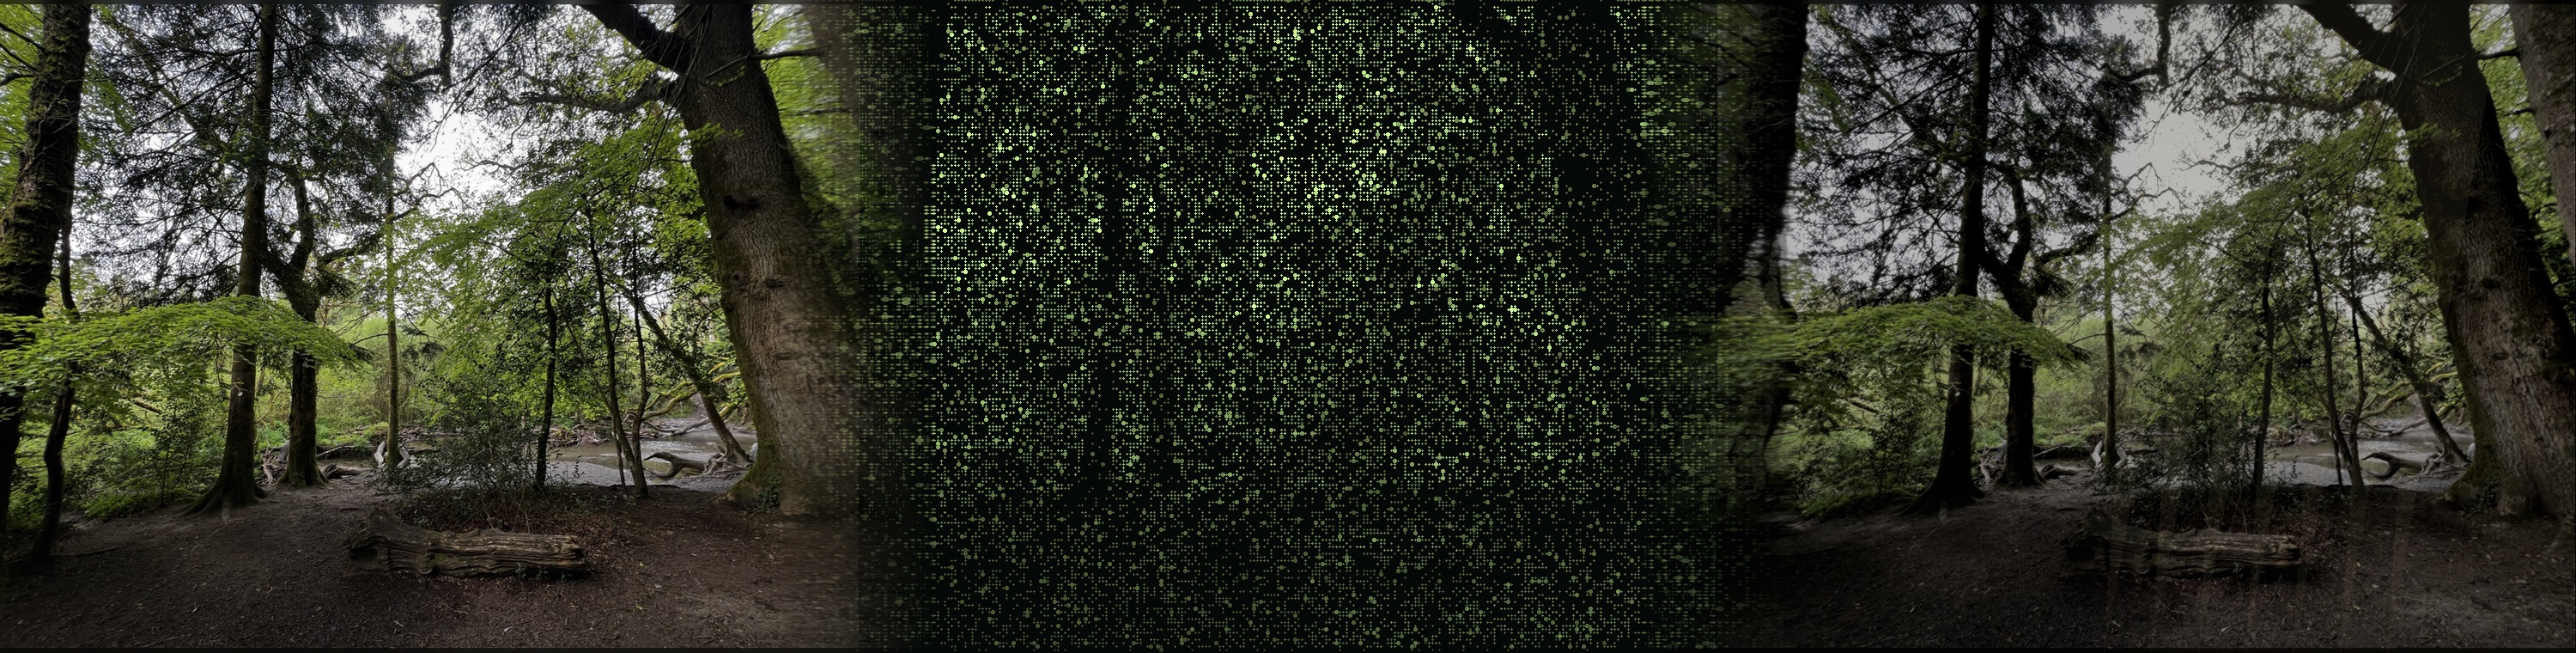
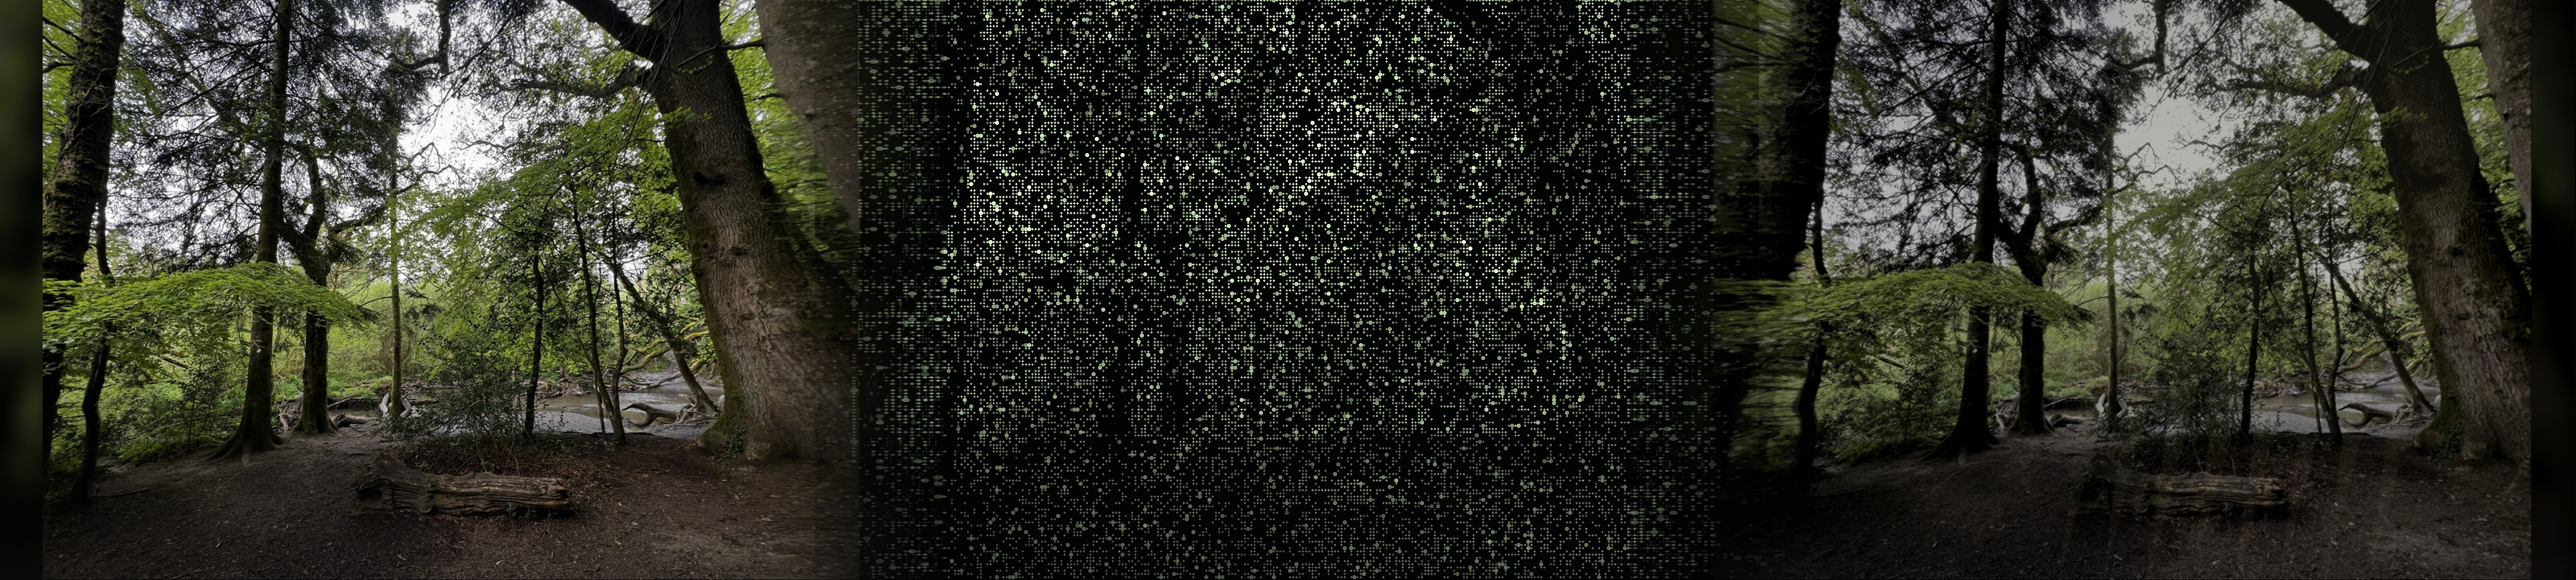
Add files via upload

diff --git a/index.html b/index.html
@@ -5,29 +5,33 @@
   <meta name="viewport" content="width=device-width, initial-scale=1">
   <title>Dafydd Sills-Jones</title>
   <meta name="description" content="Dafydd Sills-Jones: artist, filmmaker and researcher working across documentary, virtual production, AI, place and minority-language media.">
+  <link rel="preload" as="image" href="hero-place-scan-render.jpg">
   <link rel="stylesheet" href="styles.css">
 </head>
+
 <body>
   <header class="site-header">
     <a class="brand" href="#top">Dafydd Sills-Jones</a>
-    <nav>
+    <nav aria-label="Main navigation">
       <a href="#work">Work</a>
       <a href="#research">Research</a>
       <a href="#writing">Writing</a>
+      <a href="#about">About</a>
       <a href="#contact">Contact</a>
     </nav>
   </header>
 
   <main id="top">
-    <section class="hero">
+    <section class="hero" aria-label="Introduction">
       <div class="quote">
         <p>Nid wy’n byw un amser<br>nac yn unlle’n gyfan oll:</p>
         <p>Mae darn o hyd<br>ar grwydr neu ar goll.</p>
         <small>I never live wholly in one time or one place;<br>a part of me is always wandering, or lost.</small>
+        <small class="source">T. H. Parry-Williams</small>
       </div>
     </section>
 
-    <section class="identity">
+    <section class="identity" id="about">
       <h1>Dafydd Sills-Jones</h1>
       <p class="role">Artist · Filmmaker · Researcher</p>
       <p class="summary">I work across documentary, virtual production, creative technologies and minority-language media, through filmmaking, artistic practice, research and editorial work.</p>
@@ -35,51 +39,52 @@
 
     <section class="work" id="work">
       <div class="work-label">
-        <h2>Work</h2>
+        <h2>Selected<br>Works</h2>
+        <span>View all works</span>
       </div>
       <div class="works-strip">
         <a class="work-card" href="https://youtu.be/qruWjfX20rU" target="_blank" rel="noopener">
-          <img src="https://i.ytimg.com/vi/qruWjfX20rU/hqdefault.jpg" alt="Thumbnail for Anwadalwch [Fickleness]">
+          <img src="https://i.ytimg.com/vi/qruWjfX20rU/hqdefault.jpg" alt="Thumbnail for Anwadalwch [Fickleness]" loading="lazy">
           <span class="work-title">Anwadalwch [Fickleness]</span>
           <span class="work-meta">2025 · Mobile film</span>
         </a>
         <a class="work-card" href="https://youtu.be/e0rO3VePtNk" target="_blank" rel="noopener">
-          <img src="https://i.ytimg.com/vi/e0rO3VePtNk/hqdefault.jpg" alt="Thumbnail for Chryptochrome">
+          <img src="https://i.ytimg.com/vi/e0rO3VePtNk/hqdefault.jpg" alt="Thumbnail for Chryptochrome" loading="lazy">
           <span class="work-title">Chryptochrome</span>
           <span class="work-meta">2024 · LiDAR / iPhone film</span>
         </a>
         <a class="work-card" href="https://youtu.be/9hbs9z-ShWs" target="_blank" rel="noopener">
-          <img src="https://i.ytimg.com/vi/9hbs9z-ShWs/hqdefault.jpg" alt="Thumbnail for Amrywiaethau Cafflogion #3: Esgair Fraith">
-          <span class="work-title">Amrywiaethau Cafflogion #3: Esgair Fraith</span>
-          <span class="work-meta">2023 · Vertical / mobile performance film · with R. Owen</span>
+          <img src="https://i.ytimg.com/vi/9hbs9z-ShWs/hqdefault.jpg" alt="Thumbnail for Esgair Fraith" loading="lazy">
+          <span class="work-title">Esgair Fraith</span>
+          <span class="work-meta">2023 · Vertical / mobile performance film</span>
         </a>
         <a class="work-card" href="https://youtu.be/YiXHvbbyV-g" target="_blank" rel="noopener">
-          <img src="https://i.ytimg.com/vi/YiXHvbbyV-g/hqdefault.jpg" alt="Thumbnail for Y Trydydd Masg [The Third Mask]">
+          <img src="https://i.ytimg.com/vi/YiXHvbbyV-g/hqdefault.jpg" alt="Thumbnail for Y Trydydd Masg [The Third Mask]" loading="lazy">
           <span class="work-title">Y Trydydd Masg [The Third Mask]</span>
           <span class="work-meta">2021 · 360 documentary film</span>
         </a>
         <a class="work-card" href="https://youtu.be/gR3a2pCtD5k" target="_blank" rel="noopener">
-          <img src="https://i.ytimg.com/vi/gR3a2pCtD5k/hqdefault.jpg" alt="Thumbnail for Y Dosbarth Melyn [The Yellow Classroom]">
+          <img src="https://i.ytimg.com/vi/gR3a2pCtD5k/hqdefault.jpg" alt="Thumbnail for Y Dosbarth Melyn [The Yellow Classroom]" loading="lazy">
           <span class="work-title">Y Dosbarth Melyn [The Yellow Classroom]</span>
           <span class="work-meta">2017 · Documentary film</span>
         </a>
         <a class="work-card" href="https://youtu.be/XRN_jdQ3gWY" target="_blank" rel="noopener">
-          <img src="https://i.ytimg.com/vi/XRN_jdQ3gWY/hqdefault.jpg" alt="Thumbnail for Y Gors [The Bog]">
+          <img src="https://i.ytimg.com/vi/XRN_jdQ3gWY/hqdefault.jpg" alt="Thumbnail for Y Gors [The Bog]" loading="lazy">
           <span class="work-title">Y Gors [The Bog]</span>
-          <span class="work-meta">2016 · Documentary film · AHRC Hydrocitizens project</span>
+          <span class="work-meta">2016 · Documentary film</span>
         </a>
         <a class="work-card" href="https://vimeo.com/119331662?fl=pl&fe=cm" target="_blank" rel="noopener">
-          <img src="https://vumbnail.com/119331662.jpg" alt="Thumbnail for Blacklisted">
+          <img src="https://vumbnail.com/119331662.jpg" alt="Thumbnail for Blacklisted" loading="lazy">
           <span class="work-title">Blacklisted</span>
-          <span class="work-meta">2015 · Documentary film · with Colin Thomas Productions</span>
+          <span class="work-meta">2015 · Documentary film</span>
         </a>
         <a class="work-card" href="https://youtu.be/E6e5fyjtTOQ" target="_blank" rel="noopener">
-          <img src="https://i.ytimg.com/vi/E6e5fyjtTOQ/hqdefault.jpg" alt="Thumbnail for 17: Esikaupunkien Sinfonia">
+          <img src="https://i.ytimg.com/vi/E6e5fyjtTOQ/hqdefault.jpg" alt="Thumbnail for 17: Esikaupunkien Sinfonia" loading="lazy">
           <span class="work-title">17: Esikaupunkien Sinfonia</span>
           <span class="work-meta">2014 · Documentary film</span>
         </a>
         <a class="work-card" href="https://youtu.be/UyinTnaaqIA" target="_blank" rel="noopener">
-          <img src="https://i.ytimg.com/vi/UyinTnaaqIA/hqdefault.jpg" alt="Thumbnail for Pwy Yw T.H.? [Who is T.H.?]">
+          <img src="https://i.ytimg.com/vi/UyinTnaaqIA/hqdefault.jpg" alt="Thumbnail for Pwy Yw T.H.? [Who is T.H.?]" loading="lazy">
           <span class="work-title">Pwy Yw T.H.? [Who is T.H.?]</span>
           <span class="work-meta">2010 · Video installation</span>
         </a>
@@ -88,60 +93,42 @@
 
     <section class="research" id="research">
       <article>
-        <p class="kicker">Research</p>
-        <p>My research explores relationships between place, memory, language and emerging forms of screen practice.</p>
-      </article>
-
-      <article>
         <p class="kicker">Virtual Production</p>
         <p>Place-based virtual production, motion capture, LiDAR and networked creative practice.</p>
-        <a href="https://vcdrc.aut.ac.nz/our-research/portalstraces" target="_blank" rel="noopener">Portals/Traces</a>
+        <a href="https://vcdrc.aut.ac.nz/our-research/portalstraces" target="_blank" rel="noopener">→ Portals/Traces</a>
       </article>
 
       <article>
         <p class="kicker">Documentary and AI</p>
         <p>Artificial intelligence, documentary theory, authorship and creative technologies.</p>
-        <a href="https://www.peterlang.com/document/1510340" target="_blank" rel="noopener">Documentary in the Age of AI</a>
+        <a href="https://www.peterlang.com/document/1510340" target="_blank" rel="noopener">→ Documentary in the Age of AI</a>
       </article>
 
       <article>
         <p class="kicker">Minority-language Media</p>
         <p>Welsh-language documentary, linguistic identity and minority-language screen cultures.</p>
-        <a href="https://brill.com/view/journals/vjep/10/1/article-p1_1.xml?language=en&srsltid=AfmBOopHk2eEmS4YXgIFr_fXDFF81pDqo2QLfbyvxjWStXB5Ts-qAx4j" target="_blank" rel="noopener">Recent publication</a>
-      </article>
-
-      <article>
-        <p class="kicker">Writing</p>
-        <p>Books, journal articles and chapters across documentary, virtual production, media history and minority-language media.</p>
-        <a href="#writing">View publications</a>
-      </article>
-
-      <article>
-        <p class="kicker">Centres, Journals & Editorial Work</p>
-        <a href="https://vcdrc.aut.ac.nz" target="_blank" rel="noopener">AUT Virtual Creative Design Research Centre <small>vcdrc.aut.ac.nz</small></a>
-        <a href="https://ijcmr.online" target="_blank" rel="noopener">International Journal of Creative Media Research <small>ijcmr.online</small></a>
-        <a href="https://www.peterlang.com/series/dfc" target="_blank" rel="noopener">Documentary Film Cultures (Peter Lang) <small>peterlang.com/series/dfc</small></a>
+        <a href="https://brill.com/view/journals/vjep/10/1/article-p1_1.xml?language=en&srsltid=AfmBOopHk2eEmS4YXgIFr_fXDFF81pDqo2QLfbyvxjWStXB5Ts-qAx4j" target="_blank" rel="noopener">→ Recent publication</a>
       </article>
     </section>
 
     <section class="writing" id="writing">
-      <div class="section-title">
+      <div class="writing-label">
         <p class="kicker">Writing</p>
-        <h2>Selected publications</h2>
       </div>
-      <div class="pub-columns">
-        <article>
-          <h3>Books and edited collections</h3>
-          <ol>
+
+      <article>
+        <h3>Books and edited collections</h3>
+        <ol>
           <li>Kaapa, P., & Sills-Jones, D. (Eds.). (Forthcoming, 2025). <em>Documentary in the age of AI</em>. Peter Lang.</li>
           <li>Aaltonen, J., Sills-Jones, D., & Kääpä, P. (2023). <em>Documentary in Finland: History, policy and practice</em>. Peter Lang.</li>
           <li>Sills-Jones, D., & Kääpä, P. (Eds.). (2023). <em>Documentary in the age of Covid</em>. Peter Lang.</li>
           <li>Sills-Jones, D., & Jones, E. H. G. (Eds.). (2021). <em>Documentary in Wales: Cultures and practices</em>. Peter Lang.</li>
-          </ol>
-        </article>
-        <article>
-          <h3>Journal articles and special issues</h3>
-          <ol>
+        </ol>
+      </article>
+
+      <article>
+        <h3>Journal articles and special issues</h3>
+        <ol>
           <li>Sills-Jones, D. (2026). Chryptochrome: How can the materiality of mobile LiDAR technology be used as a metaphor for eco-conscious storytelling. <em>International Journal of Creative Media Research</em>, Issue 13.</li>
           <li>Sills-Jones, D., Chen, C., & Bennett, G. (Eds.). (Forthcoming, 2026). Special issue: Extending virtual production. <em>International Journal of Creative Media Research</em>.</li>
           <li>Schleser, M., & Sills-Jones, D. (2025). Mobile innovation and mobile creativity. <em>Media Practice and Education</em>, 1–14.</li>
@@ -151,27 +138,33 @@
           <li>Sills-Jones, D. (2016). Before the history boom. <em>Critical Studies in Television</em>, 11(1), 78–95.</li>
           <li>Sills-Jones, D. (2013). Rhwng dau faes. <em>Cyfrwng</em>, 10, 18–34.</li>
           <li>Sills-Jones, D. (2010). The Second World War in colour. <em>Journal of British Cinema and Television</em>, 7(1), 115–130.</li>
-          </ol>
-        </article>
-        <article>
-          <h3>Book chapters</h3>
-          <ol>
+        </ol>
+      </article>
+
+      <article>
+        <h3>Book chapters</h3>
+        <ol>
           <li>Sills-Jones, D., & Owen, R. (Forthcoming, 2026). Exploratory adaptation. In A. Lulkowska & L. Bennion-Nixon (Eds.), <em>Fiction filmmaking as research</em>. Palgrave.</li>
           <li>Bennett, G., & Sills-Jones, D. (Forthcoming, 2025). Reimagining virtual production in higher education. In F. M. Badiozaman & J. Segar (Eds.), <em>The practitioner’s guide to technology-enhanced learning</em>. Routledge.</li>
           <li>Sills-Jones, D. (2024). Teliesyn, a singular Welsh media company’s history. In R. Dickason (Ed.), <em>Issues and singularity in the British media</em>. Palgrave.</li>
           <li>Sills-Jones, D. (2015). The Teliesyn Co-operative. In <em>Regional aesthetics</em> (pp. 169–181). Palgrave Macmillan.</li>
           <li>Sills-Jones, D. (2012). History on UK TV: The rise of reconstruction. In <em>Docu-fictions</em>. UVK Verlag Konstanz.</li>
-          </ol>
-        </article>
-      </div>
-    </section>
+        </ol>
+      </article>
 
-    <section class="contact" id="contact">
-      <p class="kicker">Contact</p>
-      <h2>For collaborations, talks, supervision or project enquiries.</h2>
-      <p><a href="mailto:[email redacted]">[email redacted]</a></p>
-      <p><a href="https://academics.aut.ac.nz/dafydd.sills.jones" target="_blank" rel="noopener">AUT academic profile</a></p>
-      <p><a href="https://orcid.org/0000-0001-8611-7709" target="_blank" rel="noopener">ORCID</a></p>
+      <article class="centres">
+        <p class="kicker">Centres, Journals & Editorial Work</p>
+        <a href="https://vcdrc.aut.ac.nz" target="_blank" rel="noopener">AUT Virtual Creative Design Research Centre <small>vcdrc.aut.ac.nz</small></a>
+        <a href="https://ijcmr.online" target="_blank" rel="noopener">International Journal of Creative Media Research <small>ijcmr.online</small></a>
+        <a href="https://www.peterlang.com/series/dfc" target="_blank" rel="noopener">Documentary Film Cultures (Peter Lang) <small>peterlang.com/series/dfc</small></a>
+      </article>
+
+      <article class="contact-mini" id="contact">
+        <p class="kicker">Contact</p>
+        <a href="mailto:[email redacted]">[email redacted]</a>
+        <p>Auckland, Aotearoa New Zealand / Ceredigion, Cymru</p>
+        <p><a href="https://academics.aut.ac.nz/dafydd.sills.jones" target="_blank" rel="noopener">AUT profile</a> · <a href="https://orcid.org/0000-0001-8611-7709" target="_blank" rel="noopener">ORCID</a></p>
+      </article>
     </section>
   </main>
 

diff --git a/styles.css b/styles.css
@@ -1,50 +1,49 @@
 *{box-sizing:border-box}
-:root{--bg:#0b100c;--ink:#f4efe6;--muted:#aaa395;--moss:#a7bd73;--line:rgba(244,239,230,.14);--panel:rgba(244,239,230,.03);--copper:#c18a58}
+:root{--bg:#090d0a;--ink:#f4efe6;--muted:#aaa395;--moss:#a8bd70;--line:rgba(244,239,230,.14);--panel:rgba(244,239,230,.025)}
 html{scroll-behavior:smooth}
 body{margin:0;background:var(--bg);color:var(--ink);font-family:Georgia,"Times New Roman",serif;line-height:1.55}
-a{color:inherit;text-underline-offset:.25em}
-.site-header{position:fixed;z-index:10;inset:0 0 auto 0;display:flex;justify-content:space-between;gap:1rem;align-items:center;padding:1rem clamp(1rem,4vw,4rem);background:linear-gradient(180deg,rgba(5,8,6,.86),rgba(5,8,6,.14));backdrop-filter:blur(12px)}
-.brand{text-decoration:none;text-transform:uppercase;letter-spacing:.09em;font-size:.95rem}
-nav{display:flex;flex-wrap:wrap;gap:1.35rem;font-family:system-ui,sans-serif;text-transform:uppercase;letter-spacing:.14em;font-size:.72rem}
+a{color:inherit;text-underline-offset:.28em}
+.site-header{position:fixed;z-index:20;inset:0 0 auto 0;display:flex;justify-content:space-between;gap:1rem;align-items:center;padding:1rem clamp(1rem,4vw,4rem);background:linear-gradient(180deg,rgba(5,8,6,.86),rgba(5,8,6,.08));backdrop-filter:blur(12px)}
+.brand{text-decoration:none;text-transform:uppercase;letter-spacing:.09em;font-size:.92rem}
+nav{display:flex;flex-wrap:wrap;gap:1.45rem;font-family:system-ui,sans-serif;text-transform:uppercase;letter-spacing:.15em;font-size:.7rem}
 nav a{text-decoration:none}
 nav a:hover{color:var(--moss)}
-.hero{min-height:50vh;background:linear-gradient(90deg,rgba(5,8,6,.62),rgba(5,8,6,.1) 48%,rgba(5,8,6,.54)),linear-gradient(0deg,rgba(5,8,6,.85),rgba(5,8,6,0) 50%),url('hero-place-scan-render.jpg') center/100% 100% no-repeat;display:grid;align-items:end;padding:7rem clamp(1rem,6vw,6rem) 3rem}
-.quote{max-width:560px;margin-left:2vw}
-.quote p{margin:0 0 1rem;font-size:clamp(1.65rem,3vw,3rem);line-height:1.12;letter-spacing:-.025em}
-.quote small{color:var(--muted);font-family:system-ui,sans-serif;font-size:.72rem;letter-spacing:.04em}
-.identity{text-align:center;padding:clamp(2rem,5vw,4rem) 1rem 1.8rem;width:min(980px,calc(100% - 2rem));margin:0 auto}
-h1{margin:0;font-size:clamp(2.5rem,5vw,4.7rem);line-height:1;font-weight:400;letter-spacing:-.04em}
-.role{margin:.65rem 0 1.2rem;color:var(--moss);font-family:system-ui,sans-serif;letter-spacing:.14em}
-.summary{max-width:760px;margin:0 auto;color:var(--muted);font-size:clamp(1rem,1.35vw,1.15rem)}
-.work,.research,.writing,.contact{width:min(1420px,calc(100% - 2rem));margin:0 auto;border-top:1px solid var(--line)}
-.work{display:grid;grid-template-columns:120px 1fr;gap:2rem;padding:2.6rem 0}
-.work-label h2,.kicker{color:var(--moss);font-family:system-ui,sans-serif;text-transform:uppercase;letter-spacing:.2em;font-size:.85rem;font-weight:400;line-height:1.45;margin:0 0 1rem}
-.works-strip{display:grid;grid-template-columns:repeat(9,minmax(110px,1fr));gap:1rem}
+.hero{min-height:42vh;background:linear-gradient(90deg,rgba(3,6,4,.60),rgba(3,6,4,.08) 48%,rgba(3,6,4,.48)),linear-gradient(0deg,rgba(3,6,4,.86),rgba(3,6,4,0) 48%),url('hero-place-scan-render.jpg') center/cover no-repeat;display:grid;align-items:end;padding:6.2rem clamp(1rem,5vw,5rem) 2.3rem}
+.quote{max-width:500px}
+.quote p{margin:0 0 .8rem;font-size:clamp(1.45rem,2.5vw,2.55rem);line-height:1.13;letter-spacing:-.02em}
+.quote small{display:block;color:var(--muted);font-family:system-ui,sans-serif;font-size:.72rem;letter-spacing:.02em;margin-top:.35rem}
+.quote .source{letter-spacing:.08em;font-weight:700;font-size:.65rem;margin-top:.7rem}
+.identity{text-align:center;padding:clamp(2rem,4vw,3.6rem) 1rem 1.6rem;width:min(980px,calc(100% - 2rem));margin:0 auto}
+h1{margin:0;font-size:clamp(2.6rem,5vw,4.9rem);line-height:1;font-weight:400;letter-spacing:-.045em}
+.role{margin:.65rem 0 1rem;color:var(--moss);font-family:system-ui,sans-serif;letter-spacing:.14em}
+.summary{max-width:760px;margin:0 auto;color:var(--ink);font-size:clamp(.98rem,1.25vw,1.1rem)}
+.work,.research,.writing{width:min(1480px,calc(100% - 2rem));margin:0 auto;border-top:1px solid var(--line)}
+.work{display:grid;grid-template-columns:125px 1fr;gap:2rem;padding:2.35rem 0}
+.work-label h2,.kicker{color:var(--moss);font-family:system-ui,sans-serif;text-transform:uppercase;letter-spacing:.2em;font-size:.84rem;font-weight:400;line-height:1.45;margin:0 0 1rem}
+.work-label span{color:var(--moss);font-family:system-ui,sans-serif;font-size:.7rem;text-decoration:underline;text-underline-offset:.3em}
+.works-strip{display:grid;grid-template-columns:repeat(9,minmax(105px,1fr));gap:1rem}
 .work-card{display:block;text-decoration:none}
-.work-card img{width:100%;aspect-ratio:16/9;object-fit:cover;display:block;opacity:.9;filter:saturate(.85) contrast(1.04);transition:opacity .18s ease,transform .18s ease}
+.work-card img{width:100%;aspect-ratio:16/9;object-fit:cover;display:block;opacity:.9;filter:saturate(.82) contrast(1.04);transition:opacity .18s ease,transform .18s ease}
 .work-card:hover img{opacity:1;transform:translateY(-3px)}
-.work-title{display:block;margin-top:.62rem;font-size:.83rem;line-height:1.2}
-.work-meta{display:block;margin-top:.22rem;color:var(--moss);font-family:system-ui,sans-serif;font-size:.62rem;line-height:1.35}
-.research{display:grid;grid-template-columns:1fr 1fr 1fr 1fr .9fr 1.1fr;padding:2.8rem 0;gap:0}
-.research article{border-left:1px solid var(--line);padding:0 1.35rem;min-height:230px}
-.research article:first-child{border-left:0;padding-left:0}
-.research p:not(.kicker){color:var(--muted);font-size:.86rem;max-width:30ch}
-.research a{display:block;color:var(--moss);font-family:system-ui,sans-serif;font-size:.78rem;margin-top:1rem}
-.research article:last-child a{color:var(--ink);text-decoration:none;border-bottom:1px solid var(--line);padding:.45rem 0;margin:0;font-size:.78rem;line-height:1.2}
-.research article:last-child small{display:block;color:var(--moss);font-size:.68rem;margin-top:.15rem}
-.writing{padding:3.5rem 0}
-.section-title{display:grid;grid-template-columns:220px 1fr;gap:2rem;margin-bottom:2rem}
-h2{margin:0;font-weight:400;line-height:1.06;letter-spacing:-.04em;font-size:clamp(2rem,4vw,4rem);max-width:16ch}
-.pub-columns{display:grid;grid-template-columns:1fr 1.25fr 1fr;gap:2rem}
-.pub-columns article{background:var(--panel);border:1px solid var(--line);padding:1.2rem}
-h3{margin:0 0 1rem;font-size:1.12rem;font-weight:400}
-ol{margin:0;padding-left:1.1rem}
-li{margin-bottom:.85rem;color:var(--muted);font-size:.84rem}
-li em{color:var(--ink);font-style:italic}
-.contact{padding:3rem 0 5rem}
-.contact h2{margin:0 0 1rem;max-width:18ch}
-.contact p{color:var(--muted)}
-footer{width:min(1420px,calc(100% - 2rem));margin:0 auto;padding:1.5rem 0 3rem;border-top:1px solid var(--line);color:var(--muted);font-size:.82rem}
-@media(max-width:1180px){.research{grid-template-columns:repeat(3,1fr)}.research article{border-left:0;border-top:1px solid var(--line);padding:1rem 0 0;min-height:0}.research article:first-child{border-top:0}}
-@media(max-width:1050px){.work,.section-title,.pub-columns{grid-template-columns:1fr}.works-strip{grid-template-columns:repeat(3,1fr)}}
-@media(max-width:680px){.site-header{position:absolute;align-items:flex-start;flex-direction:column}nav{gap:.75rem}.hero{min-height:70vh}.works-strip{grid-template-columns:repeat(2,1fr)}.research{grid-template-columns:1fr}}
+.work-title{display:block;margin-top:.58rem;font-size:.82rem;line-height:1.2}
+.work-meta{display:block;margin-top:.2rem;color:var(--moss);font-family:system-ui,sans-serif;font-size:.61rem;line-height:1.35}
+.research{display:grid;grid-template-columns:repeat(3,1fr);gap:0;padding:2.45rem 0}
+.research article{border-left:1px solid var(--line);padding:0 2rem;min-height:150px}
+.research article:first-child{border-left:0}
+.research p:not(.kicker){color:var(--ink);font-size:.9rem;max-width:34ch}
+.research a{display:block;color:var(--moss);font-family:system-ui,sans-serif;font-size:.78rem;margin-top:1.05rem}
+.writing{display:grid;grid-template-columns:.7fr 1.1fr 1.1fr 1.1fr 1.15fr .9fr;gap:0;padding:2.5rem 0 2.8rem}
+.writing>article,.writing-label{border-left:1px solid var(--line);padding:0 1.55rem}
+.writing-label{border-left:0;padding-left:0}
+h3{margin:0 0 1rem;color:var(--moss);font-family:system-ui,sans-serif;text-transform:uppercase;letter-spacing:.12em;font-size:.78rem;font-weight:400}
+ol{margin:0;padding-left:0;list-style:none}
+li{margin-bottom:.72rem;color:var(--ink);font-size:.76rem;line-height:1.35}
+li em{font-style:italic;color:var(--muted)}
+.centres a{display:block;color:var(--ink);text-decoration:none;border-bottom:1px solid var(--line);padding:.55rem 0;font-size:.78rem;line-height:1.25}
+.centres small{display:block;color:var(--moss);font-family:system-ui,sans-serif;font-size:.68rem;margin-top:.15rem}
+.contact-mini a{color:var(--moss);font-family:system-ui,sans-serif;font-size:.78rem}
+.contact-mini p{color:var(--ink);font-size:.78rem}
+footer{width:min(1480px,calc(100% - 2rem));margin:0 auto;padding:1.25rem 0 2.5rem;border-top:1px solid var(--line);color:var(--muted);font-size:.8rem}
+@media(max-width:1200px){.writing{grid-template-columns:repeat(3,1fr)}.writing-label{grid-column:1/-1;border-bottom:1px solid var(--line);padding-bottom:1rem;margin-bottom:1rem}.writing>article{border-left:0;padding:1rem 0;border-top:1px solid var(--line)}}
+@media(max-width:1050px){.work{grid-template-columns:1fr}.works-strip{grid-template-columns:repeat(3,1fr)}.research{grid-template-columns:1fr}.research article{border-left:0;border-top:1px solid var(--line);padding:1.2rem 0;min-height:0}.research article:first-child{border-top:0}}
+@media(max-width:680px){.site-header{position:absolute;align-items:flex-start;flex-direction:column}nav{gap:.75rem}.hero{min-height:62vh}.works-strip{grid-template-columns:repeat(2,1fr)}.writing{grid-template-columns:1fr}}